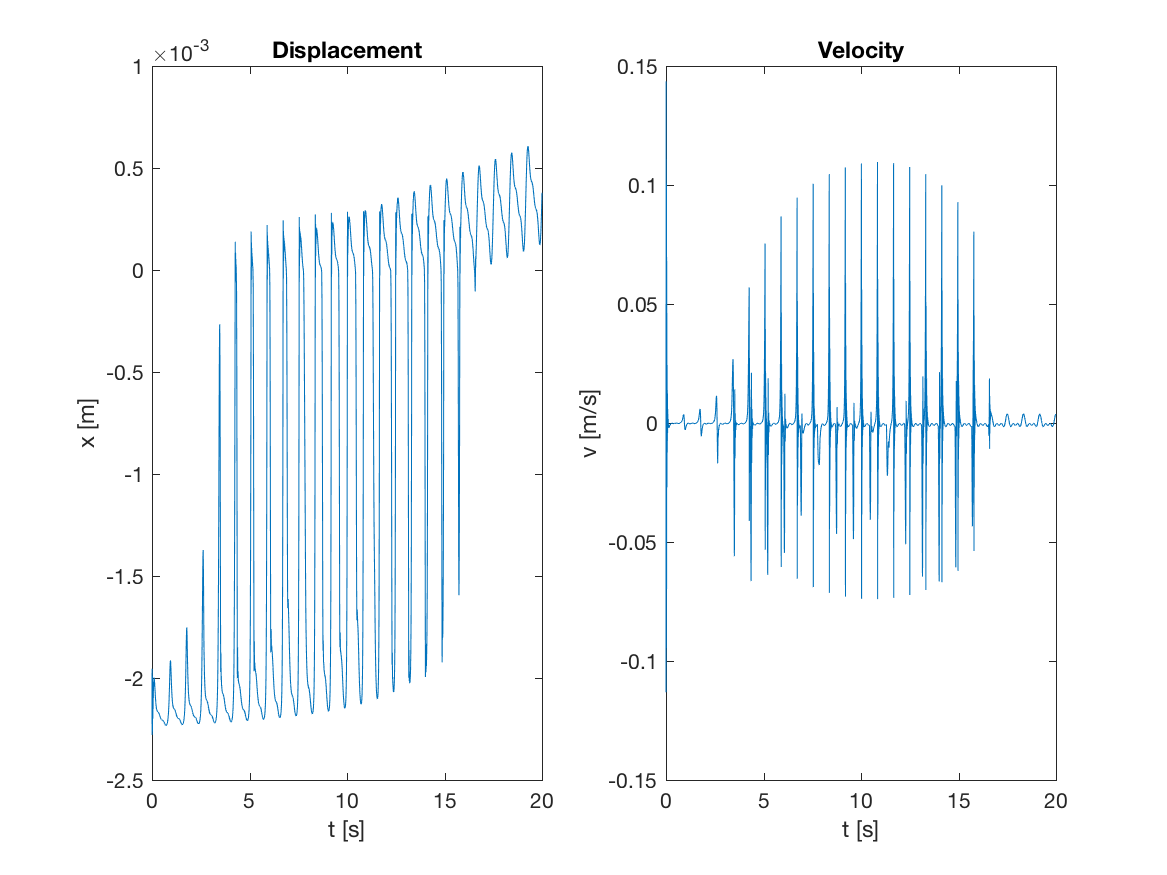
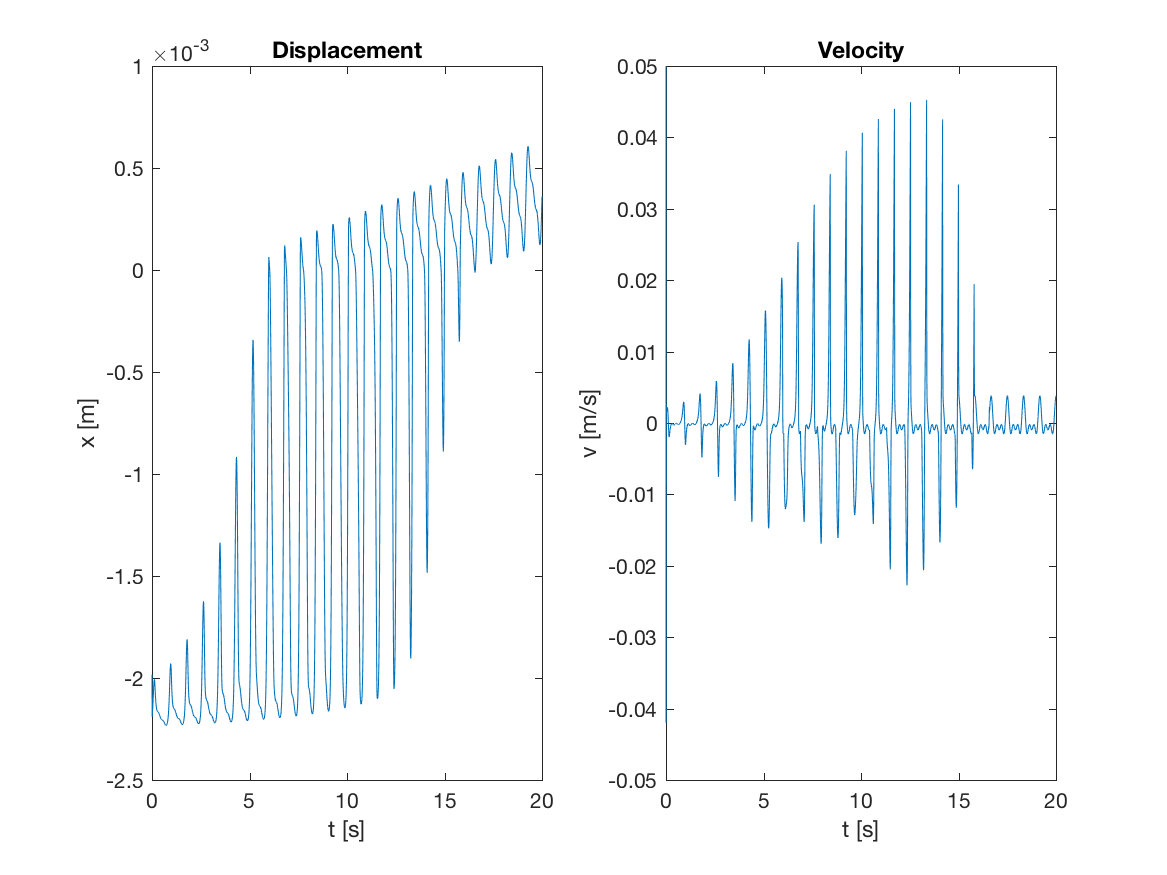
Fixes damping modulus.

diff --git a/expeuler.m b/expeuler.m
@@ -4,7 +4,7 @@ h = 0.0001;                 %% Time step [s]
 y0 = -2e-3;                 %% Initial position [m]
 ydot0 = 0.05;               %% Initial velocity [m/s]
 
-D = 7.38e1;                 %% Damping modulus [Pas]
+D = 7.38e2;                 %% Damping modulus [Pas]
 E = 1.4e5;                  %% Elastic modulus [Pa]
 h0 = 3e-04;                 %% Zero pressure wall thickness [m]
 r0 = 2e-03;                 %% Zero pressure internal radius [m]

diff --git a/vdpRK4.m b/vdpRK4.m
@@ -3,7 +3,7 @@ h = 0.001;                  %% Time step [s]
 y0 = -2e-3;                 %% Initial position [m]
 ydot0 = 0.05;               %% Initial velocity [m/s]
 
-D = 7.38e1;                 %% Damping modulus [Pas]
+D = 7.38e2;                 %% Damping modulus [Pas]
 E = 1.4e5;                  %% Elastic modulus [Pa]
 h0 = 3e-04;                 %% Zero pressure wall thickness [m]
 r0 = 2e-03;                 %% Zero pressure internal radius [m]
